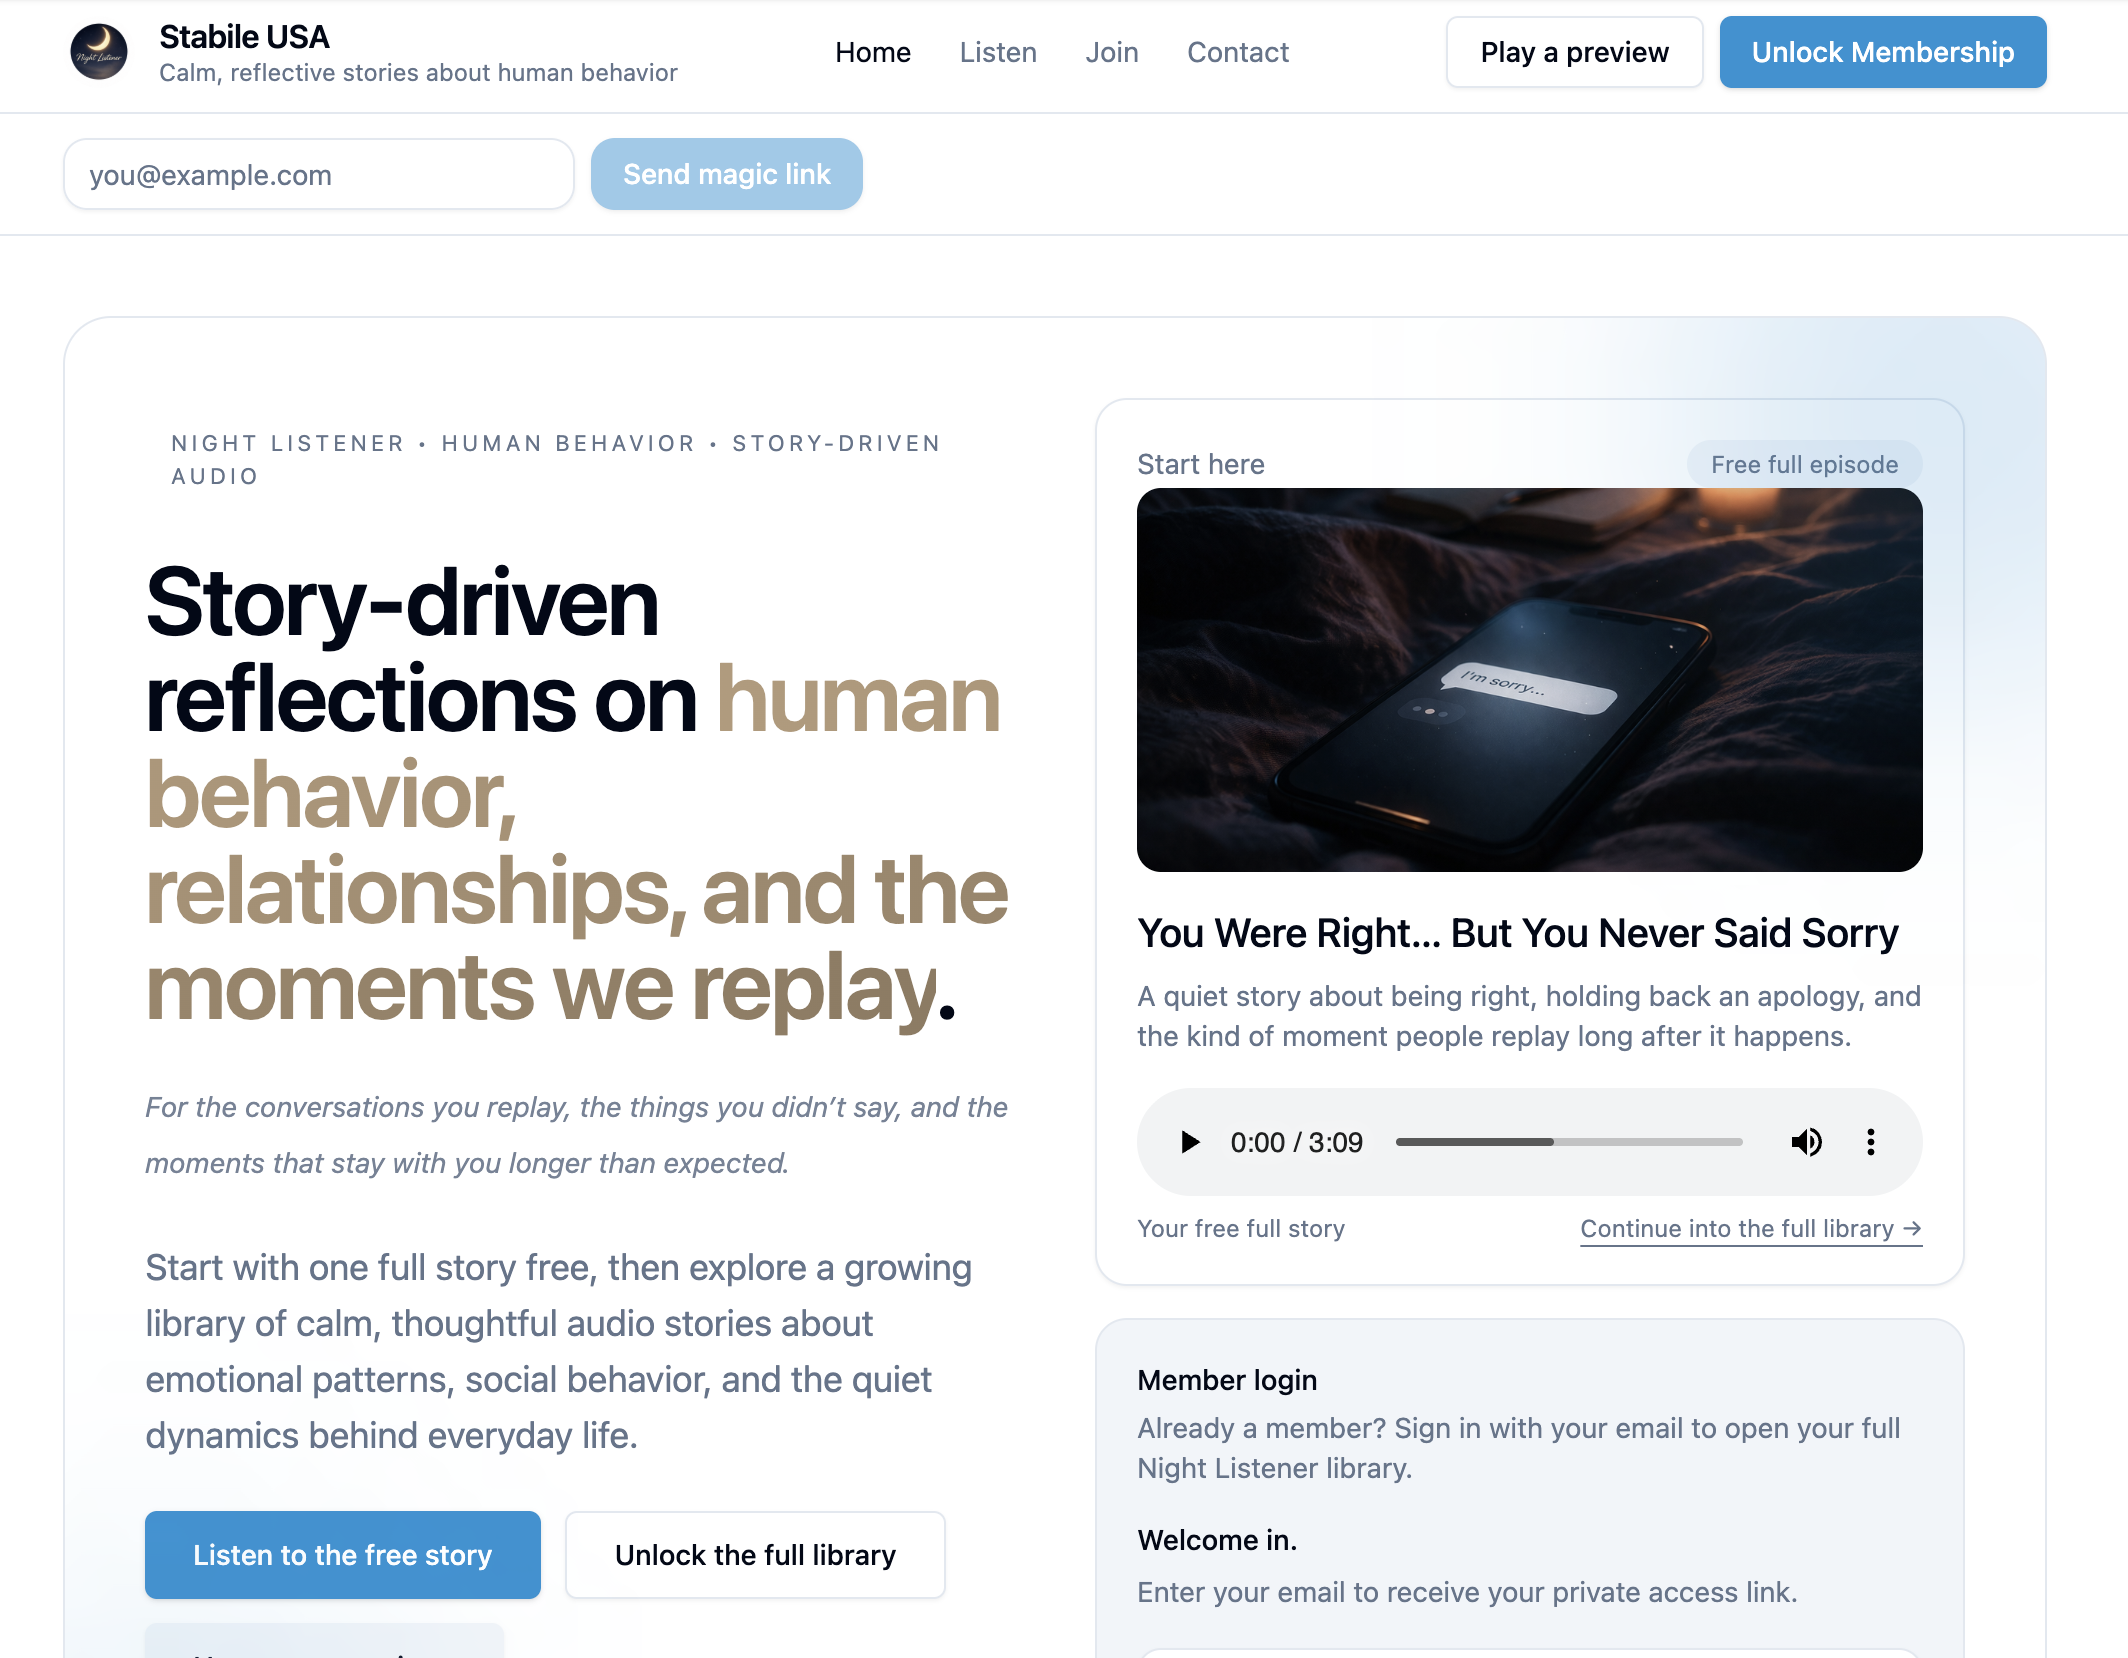
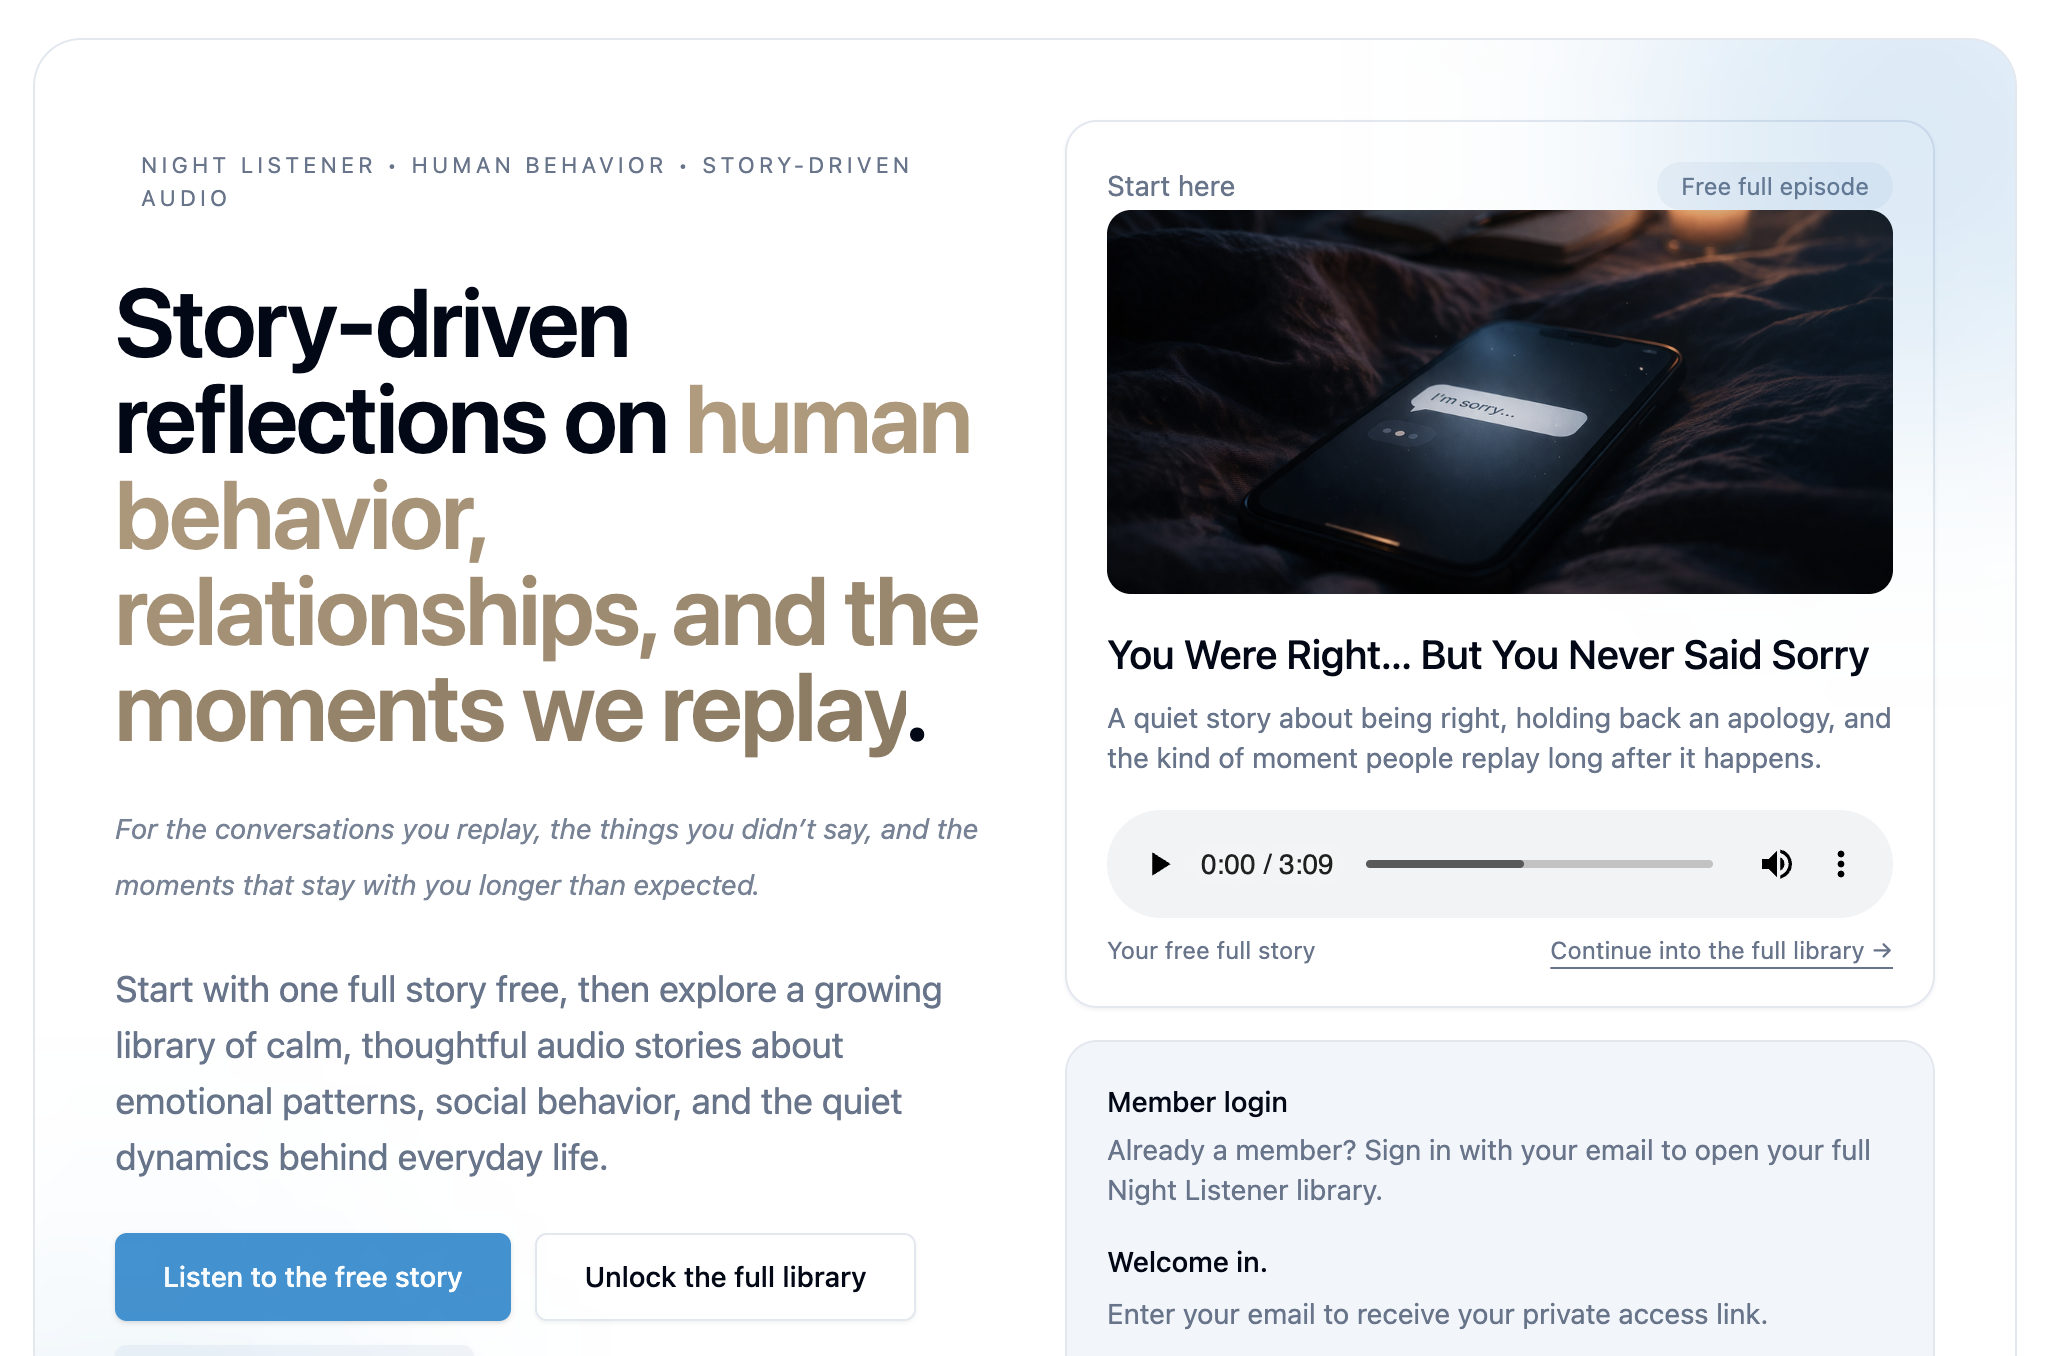
stabile usa product

diff --git a/src/pages/Work.css b/src/pages/Work.css
@@ -339,3 +339,11 @@
     justify-content: center;
   }
 }
+
+.featured-note {
+  margin-top: 8px;
+  font-size: 0.8rem;
+  letter-spacing: 0.08em;
+  text-transform: uppercase;
+  color: rgba(255,255,255,0.4);
+}

diff --git a/src/pages/Work.js b/src/pages/Work.js
@@ -41,6 +41,8 @@ export default function Work() {
         </p>
       </section>
 
+      
+
       <section id="about" className="about">
         <img
           src={pjtImage}
@@ -114,6 +116,10 @@ export default function Work() {
     </div>
   </div>
 </section>
+
+<p className="featured-note">
+  A Stabile USA product
+</p>
 
         <div className="grid">
           <Card